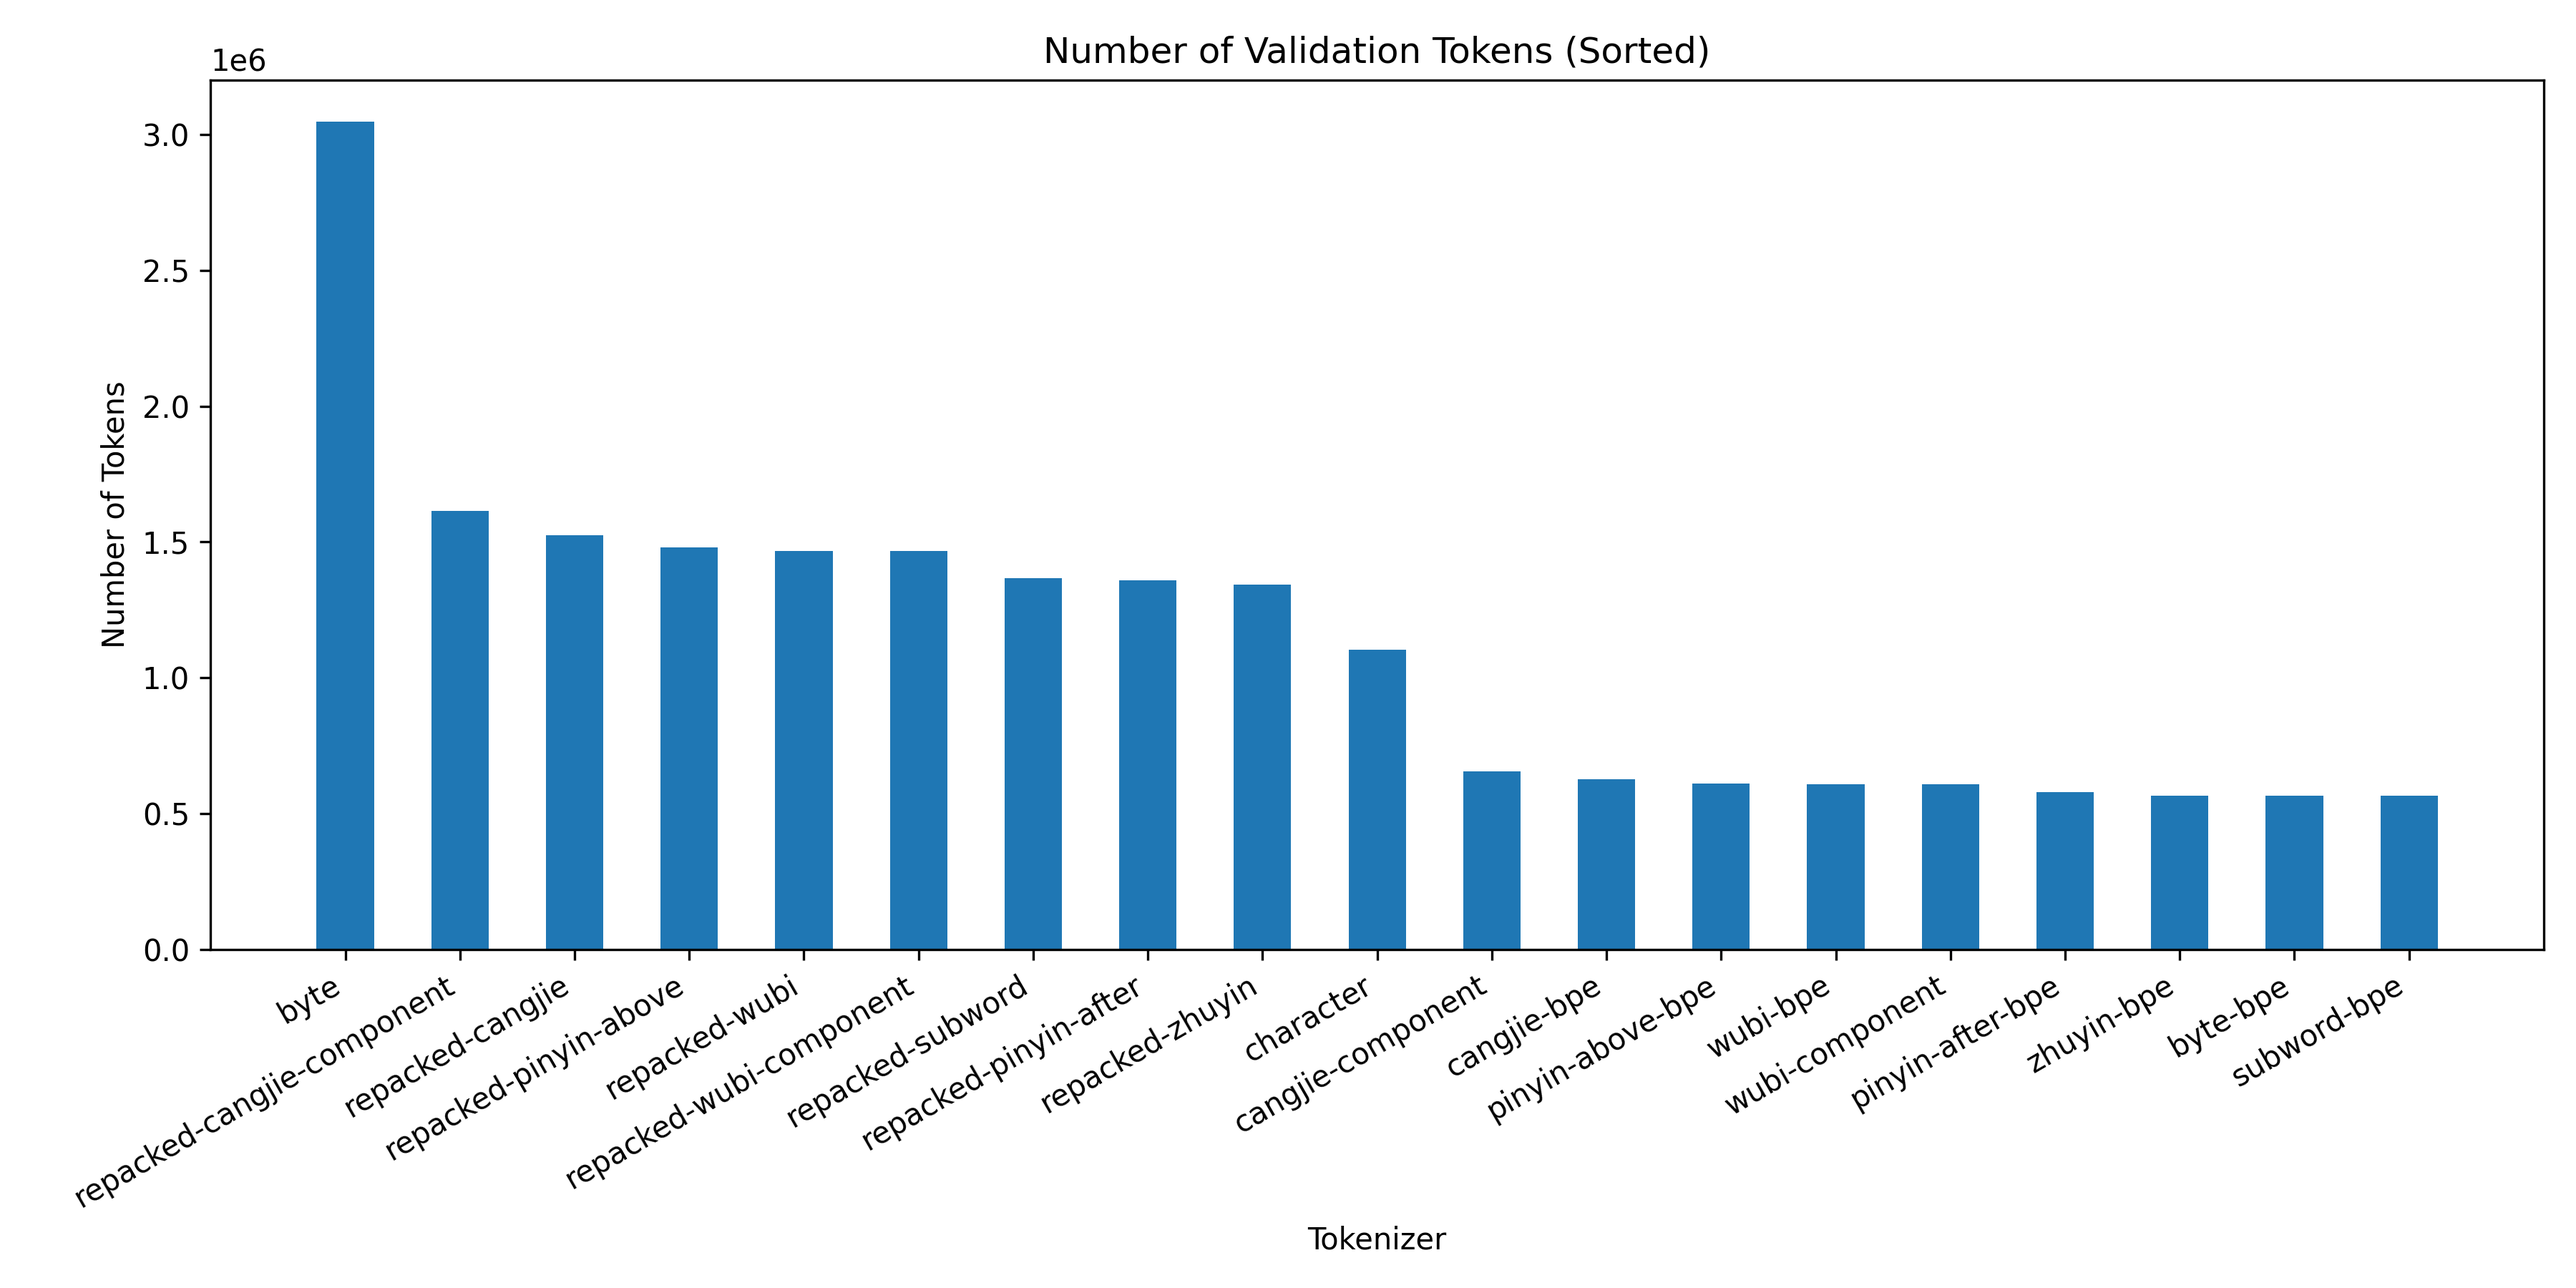
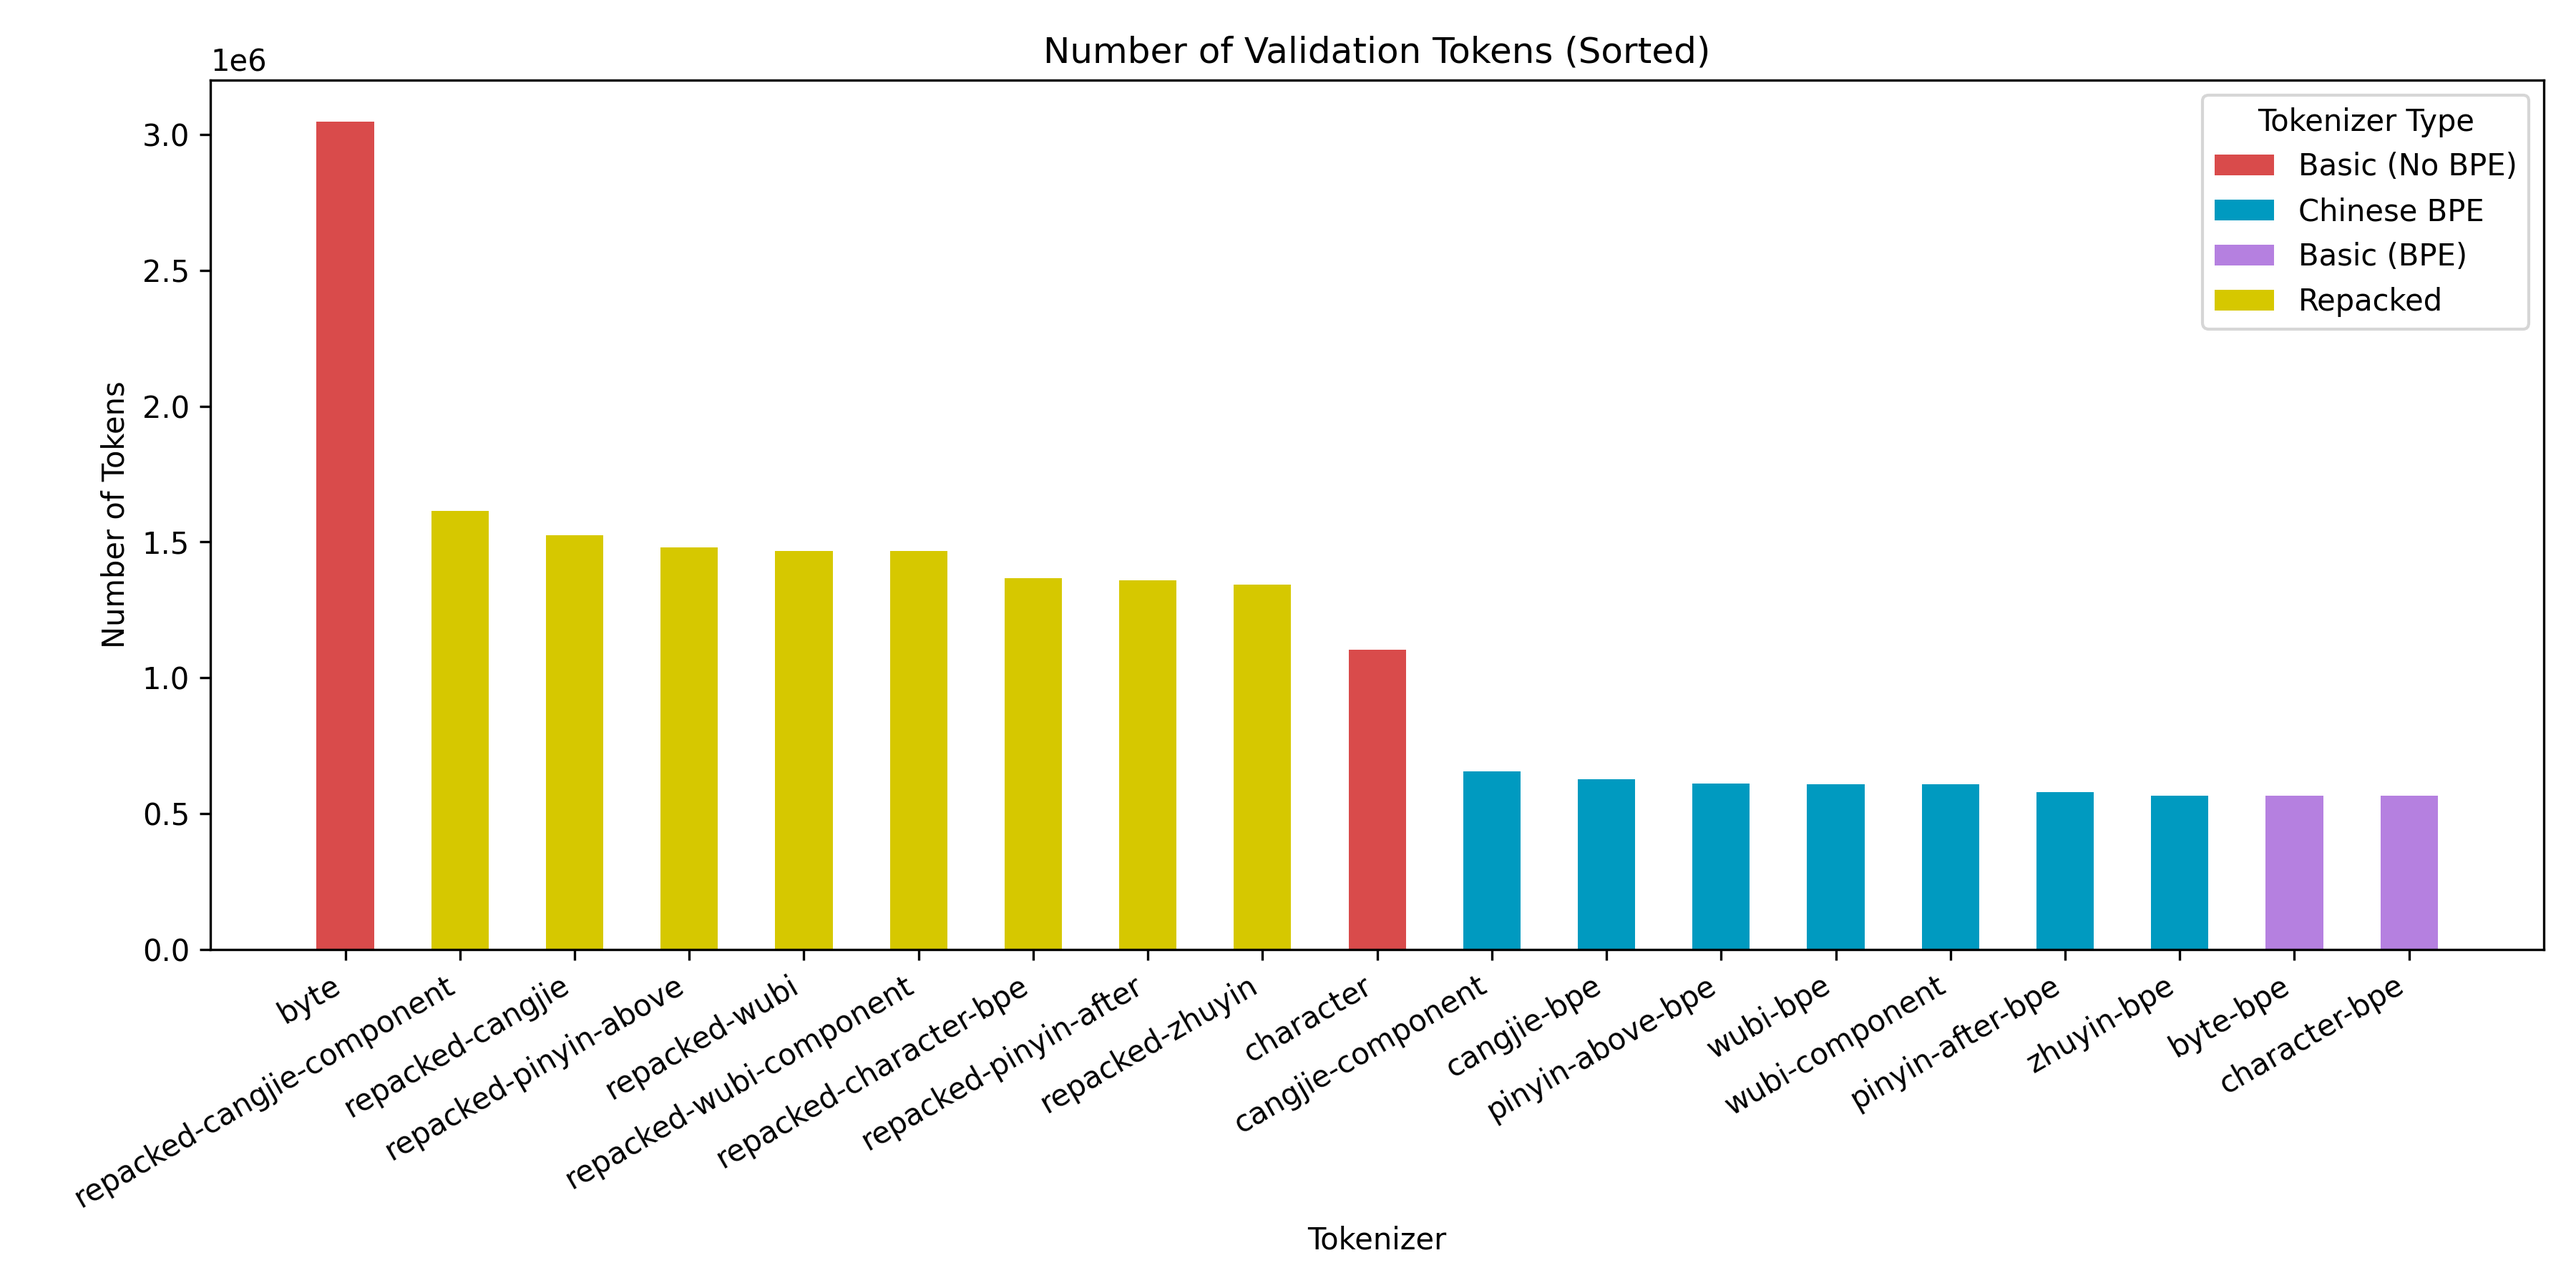
added num_tokens

diff --git a/gpt-training/results_visualization.py b/gpt-training/results_visualization.py
@@ -111,9 +111,46 @@ def visualize_per_token_entropy(path):
 
     print("Saved figure: per_token_entropy_ratios.png")
 
+def visualize_num_tokens(path):
+    # Load the CSV file
+    df = pd.read_csv(path)
+
+    # Bar graph of number of val. tokens
+    df = df.T
+    df.columns = ['Num_Tokens']
+    df.index.name = 'Tokenizer'
+    df_sorted = df.sort_values(by='Num_Tokens', ascending=False)
+    df_sorted.index = df_sorted.index.str.replace('experiments/', '', regex=False)
+    df_sorted.index = df_sorted.index.str.replace('subword-bpe', 'character-bpe', regex=False)
+    df_sorted.index = df_sorted.index.str.replace('repacked-subword', 'repacked-character-bpe', regex=False)
+    plt.figure(figsize=(12, 6))
+    bar_colors = [category_colors[tokenizer_categories[tok]] for tok in df_sorted.index]
+    plt.bar(df_sorted.index, df_sorted['Num_Tokens'], width=0.5, color=bar_colors)
+    plt.title("Number of Validation Tokens (Sorted)")
+    plt.xlabel("Tokenizer")
+    plt.ylabel("Number of Tokens")
+    plt.xticks(rotation=30, ha='right')
+
+    # Add legend
+    from matplotlib.patches import Patch
+    legend_elements = [
+        Patch(facecolor=color, label=category)
+        for category, color in category_colors.items()
+    ]
+    plt.legend(handles=legend_elements, title='Tokenizer Type')
+
+    plt.tight_layout()
+    plt.savefig("num_tokens.png", dpi=300)
+    plt.show()
+
+    print("Saved figure: num_tokens.png")
+
 if __name__ == "__main__":
     # Generate per-token entropy ratios bar graph
-    visualize_per_token_entropy("/mnt/storage/ntunggal/thesis-ntunggal/gpt-training/per_token_entropy_ratios.csv")
+    # visualize_per_token_entropy("/mnt/storage/ntunggal/thesis-ntunggal/gpt-training/per_token_entropy_ratios.csv")
 
     # Generate main results
-    visualize_results("/mnt/storage/ntunggal/thesis-ntunggal/gpt-training/compiled_entropy_ratios.csv")
+    # visualize_results("/mnt/storage/ntunggal/thesis-ntunggal/gpt-training/compiled_entropy_ratios.csv")
+
+    # View num tokens
+    visualize_num_tokens("/mnt/storage/ntunggal/thesis-ntunggal/gpt-training/num_tokens.csv")
